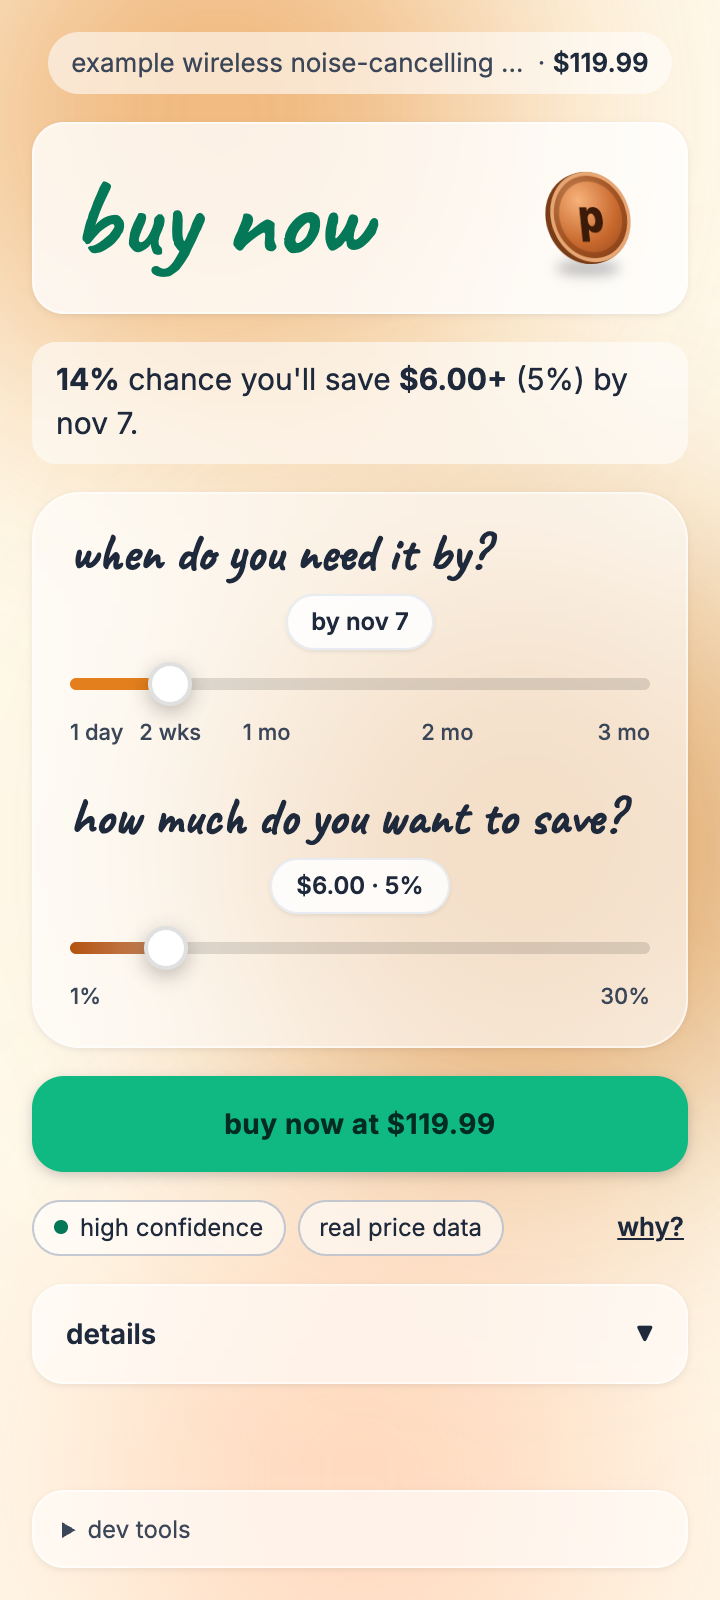
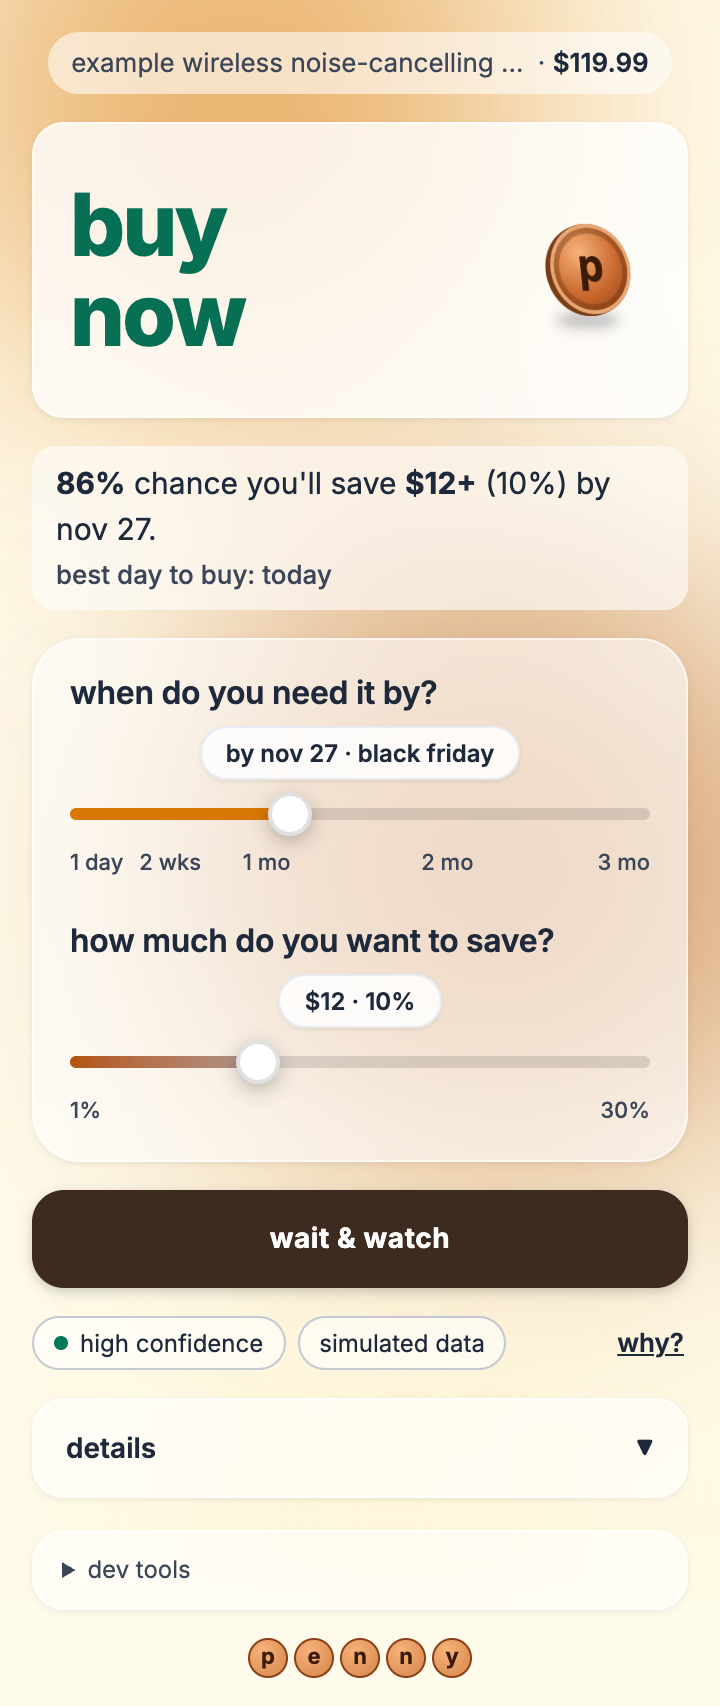
changes to ui

diff --git a/extension/sidepanel/sidepanel.css b/extension/sidepanel/sidepanel.css
@@ -150,11 +150,11 @@
   --mesh-blob-opacity: 0.6;
   --mesh-blur: 64px;
 
-  /* "penny" brand mark at the bottom: white circles, gray outline and letters.
-     The same in every season, including December's dark mode. */
-  --brand-key-border: #9ca3af;
-  --brand-key-text: #4b5563;
-  --brand-key-background: #ffffff;
+  /* "penny" brand mark at the bottom: little bronze coins, like the verdict
+     card's coin. The same in every season, including December's dark mode. */
+  --brand-key-border: var(--coin-face-dark);
+  --brand-key-text: var(--coin-letter);
+  --brand-key-background: radial-gradient(circle at 35% 30%, var(--coin-face-light), #dd9156 75%);
 
   /* Color fades while dragging. 0s with prefers-reduced-motion (below). */
   --color-transition-duration: 0.7s;
@@ -384,7 +384,7 @@ body {
 @supports not ((backdrop-filter: blur(1px)) or (-webkit-backdrop-filter: blur(1px))) {
   .glass,
   .product-line,
-  .chance-line {
+  .chance-plate {
     background: var(--glass-background-solid);
   }
 }
@@ -489,11 +489,41 @@ body {
   gap: 14px;
 }
 
-/* While a slider-triggered request runs, dim the result but keep it readable. */
+/* While a slider-triggered request runs, dim the result, but only once it
+   has taken 200 ms: fast answers then change the card without any flash.
+   Coming back is immediate. Nothing here changes the layout. */
 .recommendation-card--updating .verdict,
-.recommendation-card--updating .chance-line {
+.recommendation-card--updating .chance-line,
+.recommendation-card--updating .best-day-line {
   opacity: 0.55;
-  transition: opacity 0.15s;
+  transition: opacity 0.2s ease 0.2s;
+}
+
+/* "updating…" floats in the chance plate's corner (no layout space). */
+.updating-indicator {
+  position: absolute;
+  top: 6px;
+  right: 8px;
+  padding: 1px 8px;
+  border-radius: 999px;
+  background: var(--chip-background);
+  font-size: 11px;
+  font-weight: 500;
+  color: var(--text-muted);
+  opacity: 0;
+  pointer-events: none;
+}
+
+.recommendation-card--updating .updating-indicator {
+  opacity: 1;
+  transition: opacity 0.2s ease 0.2s;
+}
+
+@media (prefers-reduced-motion: reduce) {
+  .recommendation-card--updating .verdict,
+  .recommendation-card--updating .chance-line,
+  .recommendation-card--updating .best-day-line,
+  .recommendation-card--updating .updating-indicator { transition: opacity 0s linear 0.2s; }
 }
 
 /* ---- 2. Verdict card and coin ---- */
@@ -508,14 +538,54 @@ body {
   cursor: default;
 }
 
+/* One word per line, in a box as tall as the tallest verdict ("leaning" /
+   "buy" / "now"). Shorter verdicts are centered in it, so the cards below
+   never move when the verdict changes. */
 .verdict {
+  --verdict-size: clamp(38px, 12vw, 48px);
+  --verdict-line-height: 1.05;
+  --verdict-leaning-size: 15px;
+  --verdict-leaning-line-height: 1.3;
+  display: flex;
+  flex-direction: column;
+  justify-content: center;
+  flex: 1;
+  min-width: 0;
+  /* + 4px absorbs line-height rounding at narrow widths. */
+  height: calc(var(--verdict-leaning-size) * var(--verdict-leaning-line-height) + var(--verdict-size) * var(--verdict-line-height) * 2 + 4px);
   margin: 0;
-  font-size: clamp(38px, 12vw, 48px);
+  font-size: var(--verdict-size);
   font-weight: 800;
-  line-height: 1.05;
+  line-height: var(--verdict-line-height);
   letter-spacing: -0.03em;
   color: var(--verdict-wait);
   transition: color var(--color-transition-duration);
+}
+
+.verdict-leaning {
+  font-size: var(--verdict-leaning-size);
+  font-weight: 600;
+  line-height: var(--verdict-leaning-line-height);
+  letter-spacing: 0;
+}
+
+.verdict-word {
+  display: block;
+}
+
+/* Plays when the verdict changes (render.js). */
+.verdict--changed {
+  animation: verdict-fade 0.25s ease-out;
+}
+
+/* Starts partly visible, so a change reads as a soft settle, not a blink. */
+@keyframes verdict-fade {
+  from { opacity: 0.35; transform: translateY(3px); }
+  to { opacity: 1; transform: none; }
+}
+
+@media (prefers-reduced-motion: reduce) {
+  .verdict--changed { animation: none; }
 }
 
 .recommendation-card--buy-now .verdict { color: var(--verdict-buy); }
@@ -622,15 +692,28 @@ body {
 
 /* ---- 3. Chance line and small status lines ---- */
 
-.chance-line {
-  margin: 0;
+/* The chance line and the best-day line share one soft glass plate, so both
+   stay readable over any blob, in every season. */
+.chance-plate {
+  position: relative;
   padding: 8px 12px;
   border-radius: 12px;
-  font-size: 15px;
-  line-height: 1.5;
   background: var(--glass-background-soft);
   -webkit-backdrop-filter: blur(var(--glass-blur));
   backdrop-filter: blur(var(--glass-blur));
+}
+
+.chance-line {
+  margin: 0;
+  font-size: 15px;
+  line-height: 1.5;
+}
+
+.best-day-line {
+  margin: 2px 0 0;
+  font-size: 13px;
+  font-weight: 500;
+  color: var(--text-muted);
 }
 
 .chance-line-pct,
@@ -1233,7 +1316,7 @@ body {
 }
 
 /* ==========================================================================
-   9. "penny" brand mark: one small white circle per letter
+   9. "penny" brand mark: one small bronze circle per letter
    ========================================================================== */
 
 .brand-mark {

diff --git a/extension/sidepanel/render.js b/extension/sidepanel/render.js
@@ -226,10 +226,12 @@ function renderChanceLine(prediction, request) {
 /** Shows or hides the subtle "Updating…" state while the sliders' request runs. */
 function renderUpdating(isUpdating) {
   $("recommendation-card").classList.toggle("recommendation-card--updating", isUpdating);
-  const status = $("recommendation-status");
-  status.className = "recommendation-status";
-  status.textContent = isUpdating ? "Updating…" : "";
-  status.hidden = !isUpdating;
+  // A small badge floating inside the chance plate: it takes no space, so
+  // nothing below moves. sidepanel.css only shows it (and dims the result)
+  // if the request takes longer than 200 ms, so fast answers don't flash.
+  $("updating-indicator").textContent = isUpdating ? "updating…" : "";
+  // A finished request clears an earlier "couldn't update" line.
+  if (!isUpdating) $("recommendation-status").hidden = true;
 }
 
 /** A slider-triggered request failed: keep the last result, say it's out of date. */
@@ -292,6 +294,43 @@ function renderPriceRange(prediction, request) {
   $("price-range-today-label").textContent = `today ${formatMoney(today)}`;
 }
 
+/** "today", or "Nov 27" (lowercased by the CSS), for the line under the chance line. */
+function formatBestDayShort(isoDate) {
+  return isoDate === toIsoDate(new Date()) ? "today" : formatShortDate(parseIsoDate(isoDate));
+}
+
+/**
+ * The verdict, one word per line: "wait", or "buy" / "now", with a small
+ * "leaning" above either when confidence is low (so it doesn't read as
+ * certain). sidepanel.css gives the verdict a fixed height for the tallest
+ * case and centers shorter ones, so nothing below it moves. A short fade
+ * plays only when the verdict actually changes.
+ */
+function renderVerdict(verdict, isLeaning) {
+  const el = $("verdict");
+  const word = (className, text) => {
+    const span = document.createElement("span");
+    span.className = className;
+    span.textContent = text;
+    return span;
+  };
+  const parts = [
+    ...(isLeaning ? [word("verdict-leaning", "leaning")] : []),
+    ...verdict.split(" ").map((w) => word("verdict-word", w)),
+  ];
+  // Spaces between the lines keep the text "leaning buy now" for screen readers.
+  el.replaceChildren(...parts.flatMap((part, i) => (i ? [" ", part] : [part])));
+
+  const key = `${isLeaning ? "leaning " : ""}${verdict}`;
+  if (el.dataset.verdict && el.dataset.verdict !== key) {
+    el.classList.remove("verdict--changed");
+    void el.offsetWidth; // restart the fade
+    el.classList.add("verdict--changed");
+    el.addEventListener("animationend", () => el.classList.remove("verdict--changed"), { once: true });
+  }
+  el.dataset.verdict = key;
+}
+
 /** best_day is always set by the backend: today when buying now is best. */
 function formatBestDay(isoDate) {
   return isoDate === toIsoDate(new Date()) ? `today (${formatDay(isoDate)})` : formatDay(isoDate);
@@ -344,10 +383,9 @@ function renderRecommendation(prediction, request) {
   card.classList.add(`recommendation-card--${prediction.recommendation.replace("_", "-")}`);
   card.classList.toggle("recommendation-card--low-confidence", isLowConfidence);
 
-  // With low confidence the verdict is softened so it doesn't read as certain.
-  $("verdict").textContent = isLowConfidence ? `leaning ${verdict}` : verdict;
-
+  renderVerdict(verdict, isLowConfidence);
   renderChanceLine(prediction, request);
+  $("best-day-line").textContent = `best day to buy: ${formatBestDayShort(prediction.best_day)}`;
   renderUpdating(false);
 
   // Chips: the backend's confidence and data_source

diff --git a/extension/sidepanel/sidepanel.html b/extension/sidepanel/sidepanel.html
@@ -58,7 +58,11 @@
         </section>
 
         <!-- 3. Chance line (render.js), plus small status lines. -->
-        <p class="chance-line" id="recommendation-result"></p>
+        <div class="chance-plate">
+          <span class="updating-indicator" id="updating-indicator" role="status"></span>
+          <p class="chance-line" id="recommendation-result"></p>
+          <p class="best-day-line" id="best-day-line"></p>
+        </div>
         <p class="recommendation-status" id="recommendation-status" aria-live="polite" hidden></p>
         <p class="history-notice" id="history-notice" aria-live="polite" hidden>
           <span class="history-notice-spinner" aria-hidden="true"></span>
@@ -229,7 +233,7 @@
         </div>
       </details>
 
-      <!-- 9. Brand mark: one white circle per letter. Screen readers get
+      <!-- 9. Brand mark: one bronze circle per letter. Screen readers get
            just "penny"; the letters' case is set in one rule (.brand-mark). -->
       <p class="brand-mark" role="img" aria-label="penny">
         <span class="brand-mark-key" aria-hidden="true">p</span>

diff --git a/README.md b/README.md
@@ -117,14 +117,14 @@ Chrome needs permission to show notifications: **System Settings → Notificatio
 The side panel follows the design in `student_shopping_assistant_chrome_extension_side_panel.html` (the 360×800 panel only), rebuilt as plain CSS with no remote scripts or fonts. Top to bottom:
 
 1. **Product line:** small, the title and the current price.
-2. **Verdict card:** the verdict in large, extra-bold Inter, with the penny coin. "wait" uses the text color, "buy now" emerald, and "leaning wait" or "leaning buy now" grey. Hovering the card tosses the coin.
-3. **Chance line:** from the backend's `p_drop`, the savings %, the dollar amount at today's price and the real date, e.g. "62% chance you'll save $115+ (10%) by nov 27."
+2. **Verdict card:** the verdict in large, extra-bold Inter, one word per line: "wait", "buy / now", or either with a small "leaning" above it. The box is always as tall as the tallest case, "leaning / buy / now", with shorter verdicts centered in it, so nothing below moves when the verdict changes. A short fade plays when it does change, except with reduced motion. The penny coin sits beside it. "wait" uses the text color, "buy now" emerald, and "leaning wait" or "leaning buy now" grey. Hovering the card tosses the coin.
+3. **Chance line:** with "best day to buy: …" under it, from the backend's `best_day` ("today" when that's today, e.g. on buy now). The chance line comes from the backend's `p_drop`, the savings %, the dollar amount at today's price and the real date, e.g. "62% chance you'll save $115+ (10%) by nov 27."
 4. **Sliders card:** "when do you need it by?" takes any day from 1 to 90; its tag shows the real date, plus "· black friday", "· halloween", "· christmas" or "· new year's day" within 2 days of that holiday, for any year. "how much do you want to save?" runs from 1% to 30% on a copper → silver → gold track.
 5. **One button:** "wait & watch" saves a watch, then reads "watching" (click again to stop) or "update watch" if the sliders have changed. When the verdict is buy now, it reads "buy now at $X" and scrolls the page to Amazon's own buy button.
 6. **Chips:** the backend's confidence and data source ("real price data", "partly simulated data", "simulated data", "mock data"), plus **why?** to expand the backend's explanation, typical drop and best day.
 7. **Details:** collapsible. It holds the likely price range bar (from `interval_low_usd` to `interval_high_usd`, with today's price and the most likely lowest price marked) and the real watch list.
 8. **Dev tools:** collapsed, and hidden entirely in Demo mode.
-9. **Brand mark:** "penny" at the very bottom, one small white circle per letter with a gray outline, built in HTML/CSS (screen readers hear "penny").
+9. **Brand mark:** "penny" at the very bottom, one small bronze circle per letter, colored like the coin, built in HTML/CSS (screen readers hear "penny").
 
 All text is lowercase (CSS `text-transform`), including product titles and the backend's explanation. Everything uses Inter, bundled in `extension/fonts/` with its SIL Open Font License file. The hierarchy comes from weight and size: the verdict is 800, slider labels 600, and body text 400.
 
@@ -132,7 +132,7 @@ The deadline's season sets the whole panel: three slowly drifting blurred blobs 
 
 The coin rests tilted about 30°, so both its face ("p", in Inter bold) and its edge show. Five stacked rim discs give it visible thickness. The "p" is nudged up slightly, because its descender makes it look low when it's exactly centered. Adjust that with `--coin-letter-offset` on `.coin-stage` in `sidepanel.css` (default `-0.07em`; more negative raises it).
 
-The brand mark's letter case is set in a single rule, `text-transform` on `.brand-mark` in `sidepanel.css`; change it to `uppercase` for "PENNY". Its colors are `--brand-key-*` (white circles with gray outlines and letters, the same in every season).
+The brand mark's letter case is set in a single rule, `text-transform` on `.brand-mark` in `sidepanel.css`; change it to `uppercase` for "PENNY". Its colors are `--brand-key-*`, which point at the coin's colors, so the mark is bronze in every season.
 
 ### Where the colors live
 
